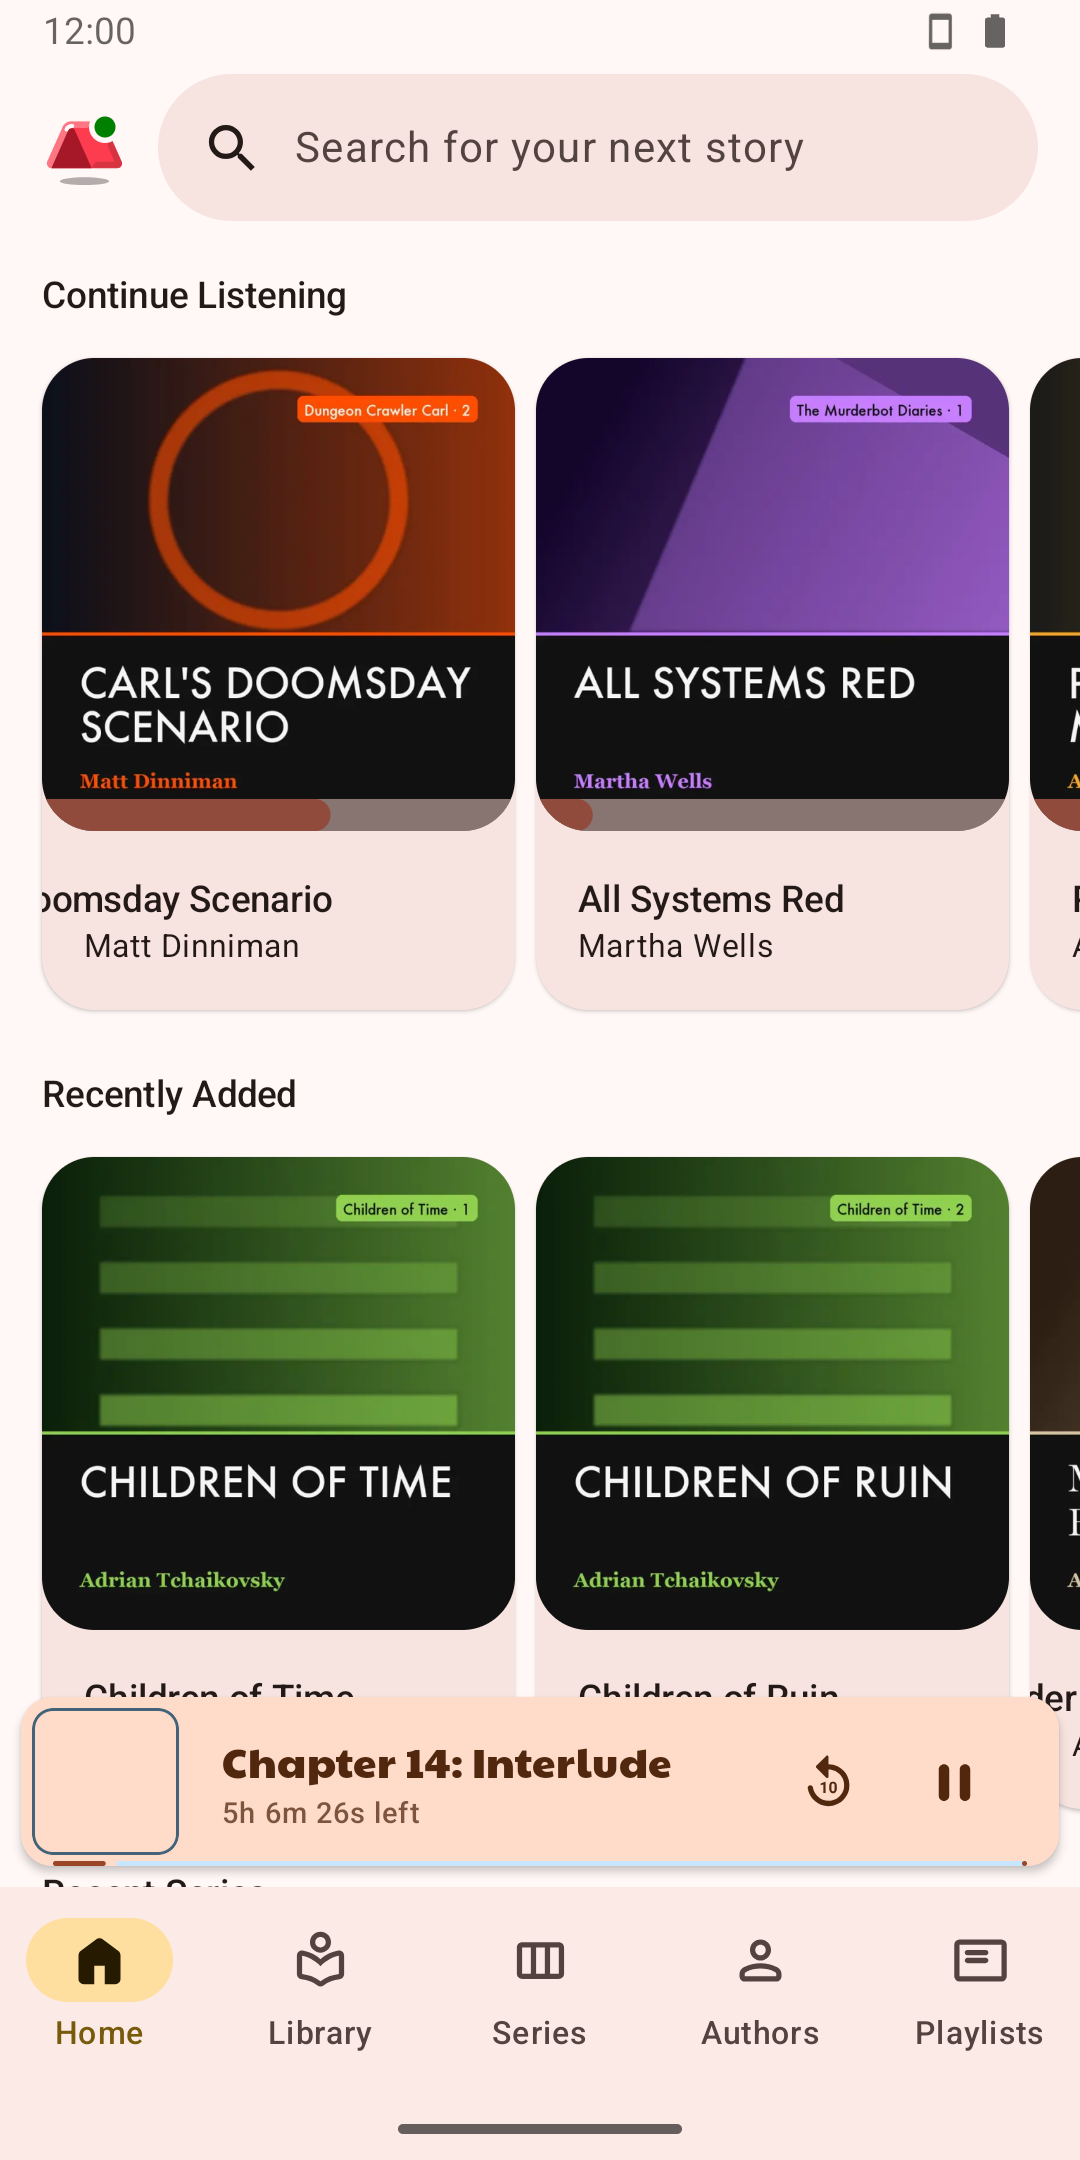
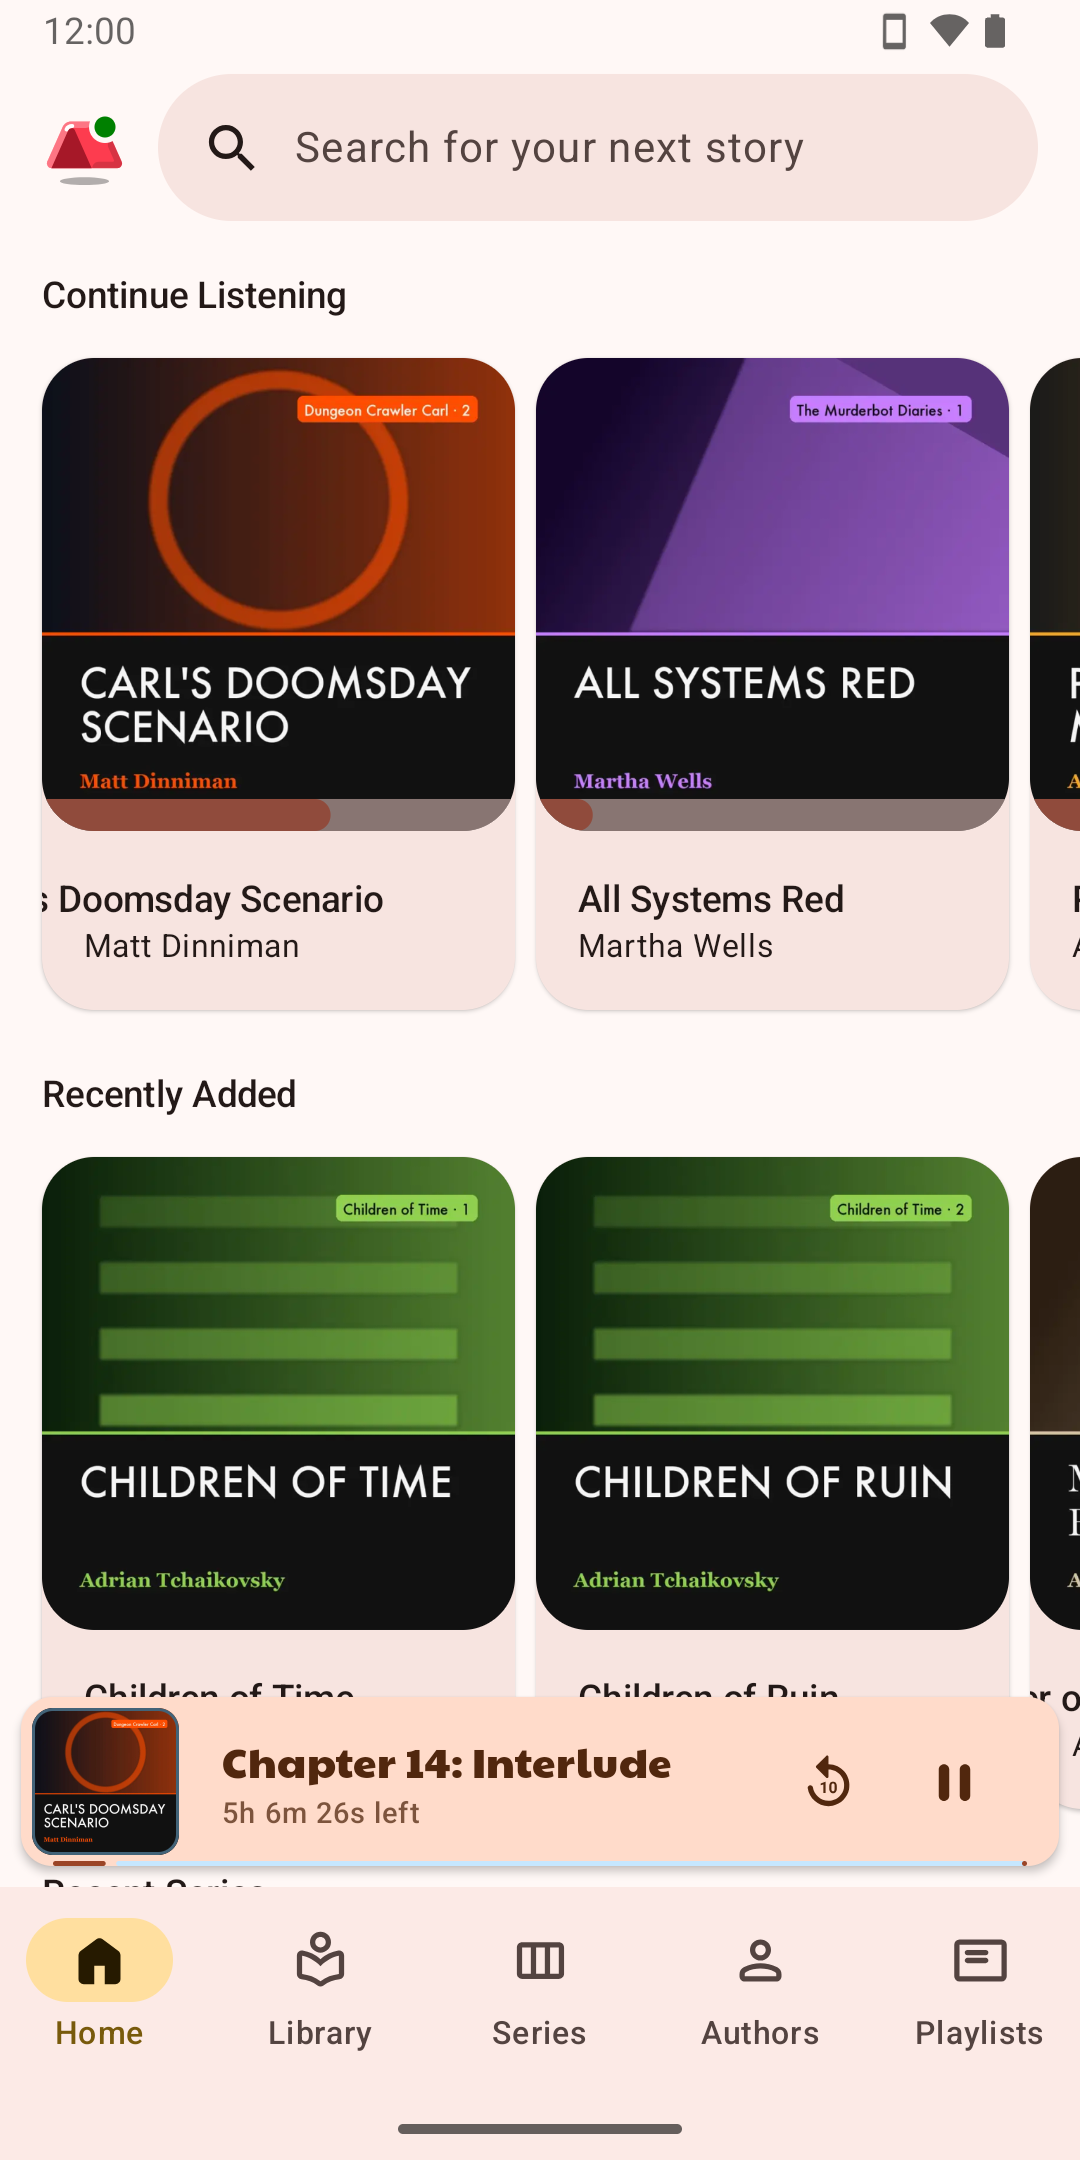
Fix blank mini player cover during playback
The collapsed playback bar rendered its thumbnail by passing the raw URL
to AsyncImage. During playback the media session reports its artwork as a
content:// CoverContentProvider URI, which only resolves through the same
sized-request path CoverImage uses everywhere else — so the mini player
cover stayed blank while the expanded player showed it. Route Thumbnail
through rememberDrawSizedRequest like the rest of the app.

diff --git a/features/sessions/ui/src/commonMain/kotlin/app/campfire/sessions/ui/composables/Thumbnail.kt b/features/sessions/ui/src/commonMain/kotlin/app/campfire/sessions/ui/composables/Thumbnail.kt
@@ -14,6 +14,7 @@ import androidx.compose.ui.graphics.Color
 import androidx.compose.ui.layout.ContentScale
 import androidx.compose.ui.unit.Dp
 import androidx.compose.ui.unit.dp
+import app.campfire.common.compose.widgets.rememberDrawSizedRequest
 import coil3.compose.AsyncImage
 
 @Composable
@@ -28,7 +29,9 @@ internal fun Thumbnail(
 ) {
   val shape = RoundedCornerShape(cornerRadius)
   AsyncImage(
-    model = imageUrl,
+    // Request a sized rendition like CoverImage everywhere else, rather than passing the bare URL:
+    // a content:// artwork URI from the media session only resolves through this path.
+    model = rememberDrawSizedRequest(imageUrl, size),
     contentDescription = contentDescription,
     contentScale = ContentScale.Crop,
     modifier = modifier

diff --git a/CHANGELOG.md b/CHANGELOG.md
@@ -17,6 +17,8 @@ and this project adheres to [Semantic Versioning](https://semver.org/spec/v2.0.0
 
 ### Fixed
 
+- Mini player cover art no longer stays blank while a book is playing
+
 ### Other Notes & Contributions
 
 - Releases now publish to Google Play automatically: release candidates to open testing, final versions as a staged production rollout
